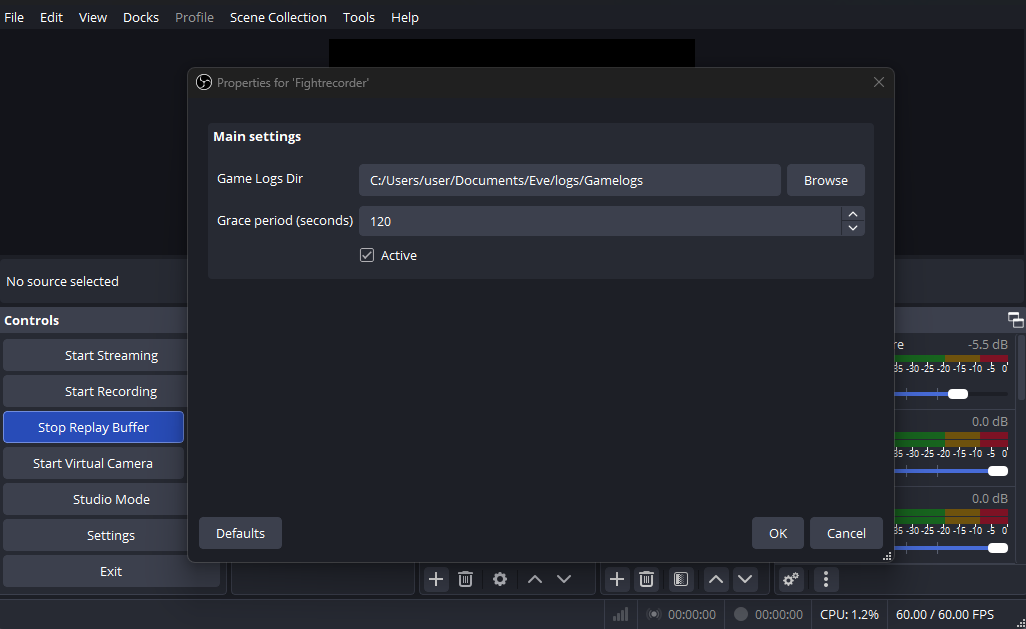
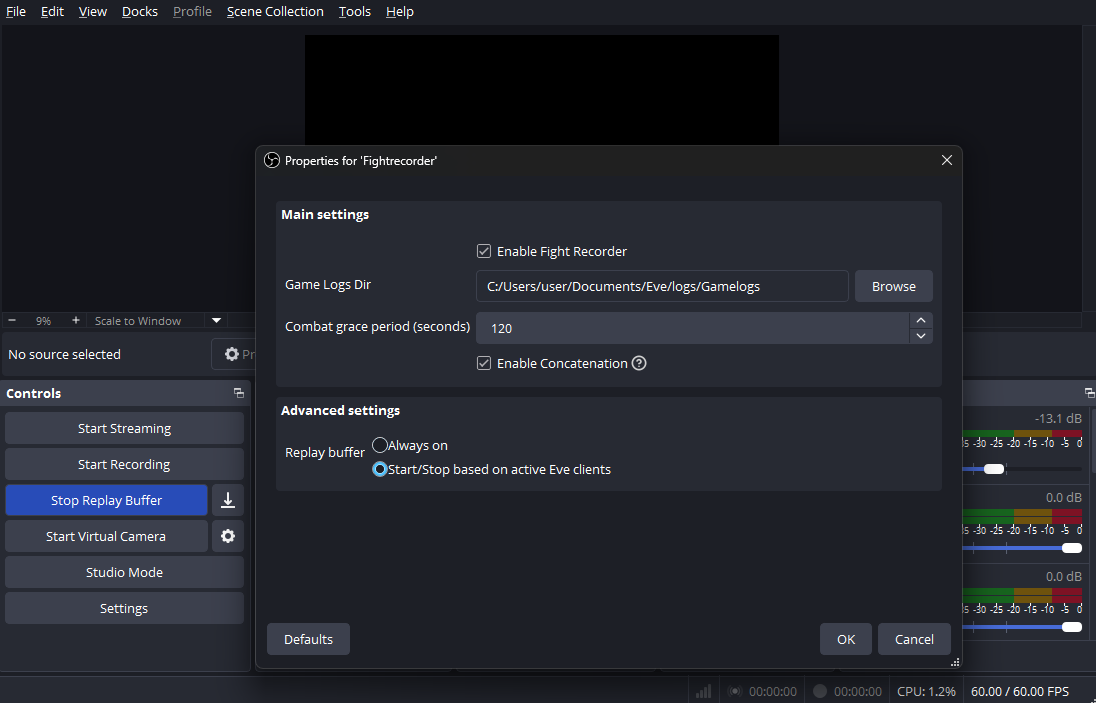
Bump 0.2.0 -> 0.3.0
Update README, Screenshot

Changed region(s): [[0.0, 0.0, 0.9981, 0.5437], [0.0, 0.3927, 1.0, 1.0], [0.8421, 0.1208, 0.8733, 0.151]]

diff --git a/README.md b/README.md
@@ -10,8 +10,8 @@ An OBS plugin for the game Eve Online. The plugin detects if you are in combat a
 
 ## Installation
 - Before installing the plugin, make sure to enable the replay buffer functionality in Settings -> Output -> Replay buffer. 
-- Download the zip file from the latest release and put the DLL in the OBS plugins folder, which is `C:\Program Files\obs-studio\obs-plugins\64bit` by default.
-- Refer to the [Plugins Guide](https://obsproject.com/kb/plugins-guide) on how to install plugins for OBS if you need further information.
+- Download the zip file from the latest release
+- Unzip the file and place the `obs-plugins/64bit/obs-fightrecorder.dll` file in the OBS plugins folder, which is `C:\Program Files\obs-studio\obs-plugins\64bit` by default.
 
 ## Build
 To build this project please follow the steps [here](https://github.com/obsproject/obs-plugintemplate/wiki/Quick-Start-Guide#windows) for Windows. You need Visual Studio 2022.
@@ -36,4 +36,7 @@ What is the grace period?
 > The number of seconds the plugin will record after the last combat trigger has been seen in the log file. Every time something combat-related happens in the log file the timer gets refreshed. The default value is 120s. 
 
 Can I concatenate (merge) the files after the combat is over?
-> Not for now.
+> Yes. However I cannot guarantee it works with all recording formats and video encodings. The final output file is also placed in your Recording directory (Settings -> Output -> Recording). The files automatically get the prefix "Fight". For example "Fight 2025-07-26 16-19-37.mkv".
+
+How does the plugin see if my Eve clients are running?
+> If the option "Replay buffer -> Start stop based on active Eve clients" is active I check (every 30 seconds) if there is a [windows title](https://learn.microsoft.com/en-us/windows/win32/api/winuser/nf-winuser-getwindowtexta) that includes "Eve - ". If I find one the the replay buffer gets started. If I don't find any for 5 minutes the OBS replay buffer gets stopped again.
